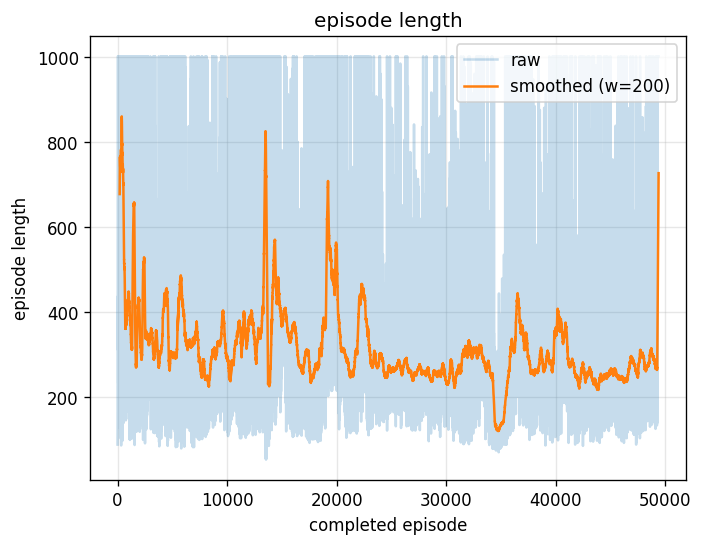
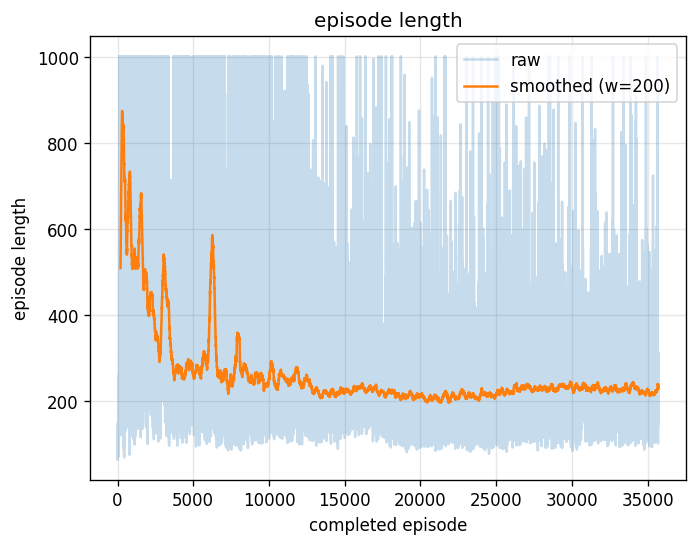
entropy and learning rate schedule

diff --git a/main.py b/main.py
@@ -89,16 +89,14 @@ def demo(checkpoint, episodes=10):
 
     env.close()
 
-def train(lr=3e-3, 
-          epochs=25000, 
+def train(epochs=15000,
           minibatch=125,
-          K=4, 
-          N=25, 
-          T=25, 
+          K=4,
+          N=25,
+          T=25,
           gamma=0.985,
-          entropy_coef=0.001, 
-          render=False, 
-          lam=0.95, 
+          render=False,
+          lam=0.95,
           epsilon=0.2):
     
     envs = gym.make_vec(ENV_ID,
@@ -112,8 +110,19 @@ def train(lr=3e-3,
 
     model = Policy(obs_dim, n_actions)
     critic = Critic(obs_dim)
-    actor_optimizer = Adam(model.parameters(), lr=lr)
-    critic_optimizer = Adam(critic.parameters(), lr=lr)
+
+    def lr_schedule(epoch):
+        if epoch < 5000:
+            return 3e-3
+        return 3e-3 * 10 ** (-(epoch - 5000) / 5000)
+
+    def entropy_schedule(epoch):
+        if epoch < 5000:
+            return 0.005
+        return 0.005 * 0.5 ** ((epoch - 5000) / 2000)
+
+    actor_optimizer = Adam(model.parameters(), lr=lr_schedule(0))
+    critic_optimizer = Adam(critic.parameters(), lr=lr_schedule(0))
 
     def gae(rews, dones, values, gamma, l):
         advantages = np.empty_like(rews)
@@ -149,7 +158,7 @@ def train(lr=3e-3,
 
     obs, _ = envs.reset()
 
-    def run_epoch(obs):
+    def run_epoch(obs, entropy_coef):
         with torch.no_grad():
             for t in range(T):
                 obs_buf[t] = obs
@@ -221,10 +230,13 @@ def train(lr=3e-3,
 
     actor_losses, critic_losses = [], []
     for e in range(epochs):
-        obs, a_loss, c_loss, mean_rew = run_epoch(obs)
+        lr_now = lr_schedule(e)
+        for g in actor_optimizer.param_groups: g['lr'] = lr_now
+        for g in critic_optimizer.param_groups: g['lr'] = lr_now
+        obs, a_loss, c_loss, mean_rew = run_epoch(obs, entropy_schedule(e))
         actor_losses.append(a_loss)
         critic_losses.append(c_loss)
-        if e % 1000 == 0:
+        if e % 250 == 0:
             recent_ret = float(np.mean(ep_returns_log[-50:])) if ep_returns_log else float("nan")
             print(f"epoch {e:6d} | actor {a_loss:+.3f} | critic {c_loss:.3f} | window rew {mean_rew:+.3f} | recent ep return {recent_ret:+.3f}")
             if e > 0:
